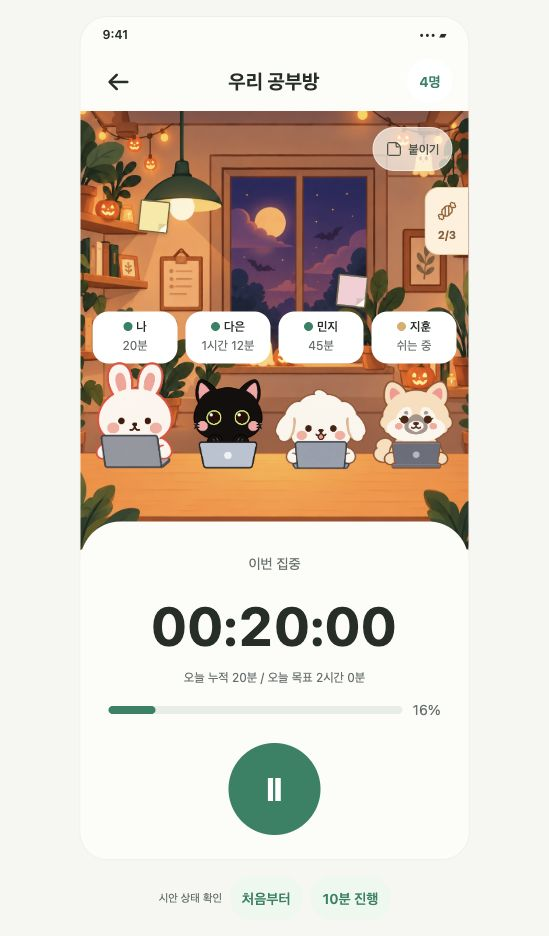
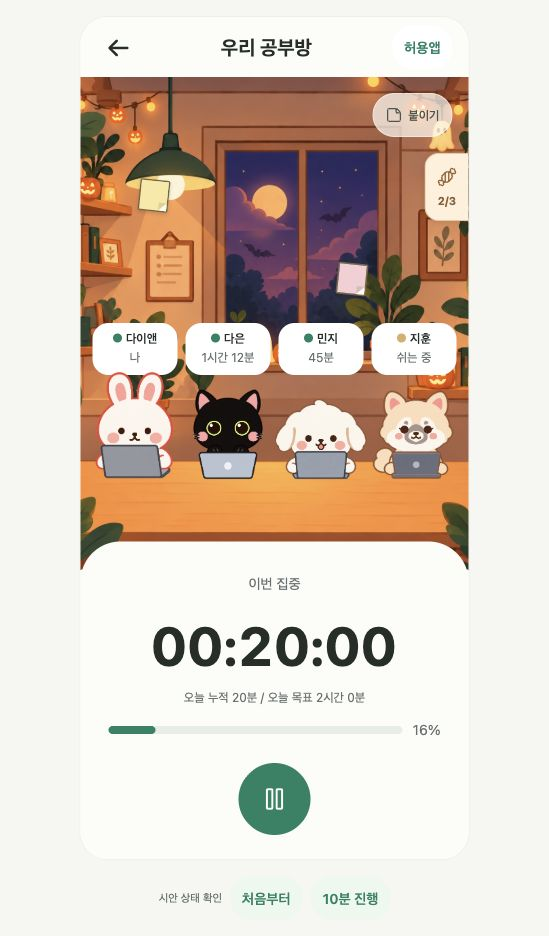
refactor: share actual focus screen UI with event Storybook

Changed region(s): [[0.1239, 0.031, 0.867, 0.8985], [0.1858, 0.7436, 0.2787, 0.8056], [0.7432, 0.7436, 0.8051, 0.8056]]

diff --git a/stories/FocusHalloweenEvent.stories.tsx b/stories/FocusHalloweenEvent.stories.tsx
@@ -4,7 +4,8 @@ import { Candy, Check, Gift } from 'lucide-react-native';
 import { Image, Pressable, StyleSheet, Text, View } from 'react-native';
 import { PostitBoard } from '../src/features/postits/PostitBoard';
 import type { Postit } from '../src/features/postits/model';
-import { FocusView } from '../src/features/study/FocusView';
+import { FocusScreenView } from '../src/features/study/FocusScreenView';
+import { StudyControlView } from '../src/features/study/StudyControlView';
 import { Button } from '../src/design/components';
 import { Dialog, DialogCloseButton } from '../src/design/Dialog';
 import { colors, typography } from '../src/design/theme';
@@ -38,28 +39,27 @@ function Preview({ minutes = 20, width = 390, confirming = false }: { minutes?: 
   ]);
   return <View style={{ gap: 16, alignItems: 'center' }}>
     <View style={[s.phone, { width, height: 844 }]}>
-      <View style={s.status}><Text style={s.statusText}>9:41</Text><Text style={s.statusText}>••• ▰</Text></View>
-      <FocusView backgroundId="halloween-focus" effectsEnabled={false} initialSceneSize={{ width, height: 330 }} members={[
-        { id: 'self', name: '나', time: `${elapsed}분`, active: running, character: 'bunny', self: true },
+      <FocusScreenView backgroundId="halloween-focus" effectsEnabled={false} initialSceneSize={{ width, height: 330 }} members={[
+        { id: 'self', name: '다이앤', time: '나', active: running, character: 'bunny', self: true },
         { id: 'friend-1', name: '다은', time: '1시간 12분', active: true, character: 'blackcat' },
         { id: 'friend-2', name: '민지', time: '45분', active: true, character: 'maltese' },
         { id: 'friend-3', name: '지훈', time: '쉬는 중', active: false, character: 'pomeranian' },
-      ]} memberCount={4} seconds={elapsed * 60} sessionSeconds={elapsed * 60} goalMinutes={120} running={running} onBack={() => {}} onFriends={() => {}} onToggle={() => setRunning(value => !value)} renderRoomOverlay={scene => <View pointerEvents="box-none" style={StyleSheet.absoluteFill}>
+      ]} memberCount={4} seconds={elapsed * 60} sessionSeconds={elapsed * 60} goalMinutes={120} running={running} onBack={() => {}} onFriends={() => {}} onAllowedApps={() => {}} timerControl={<StudyControlView round roundSize={72} running={running} onPress={() => setRunning(value => !value)} />} onToggle={() => setRunning(value => !value)} renderRoomOverlay={scene => <View pointerEvents="box-none" style={StyleSheet.absoluteFill}>
         <EventBookmark minutes={elapsed} confirming={confirming} onOpen={() => setDetails(true)} />
-        <PostitBoard scene={scene} notes={notes} embedded noteBorder createId={() => `preview-${Date.now()}`} add={async (id, text, color, x, y) => setNotes(previous => [...previous, { id, text, color, x, y, author: '나', room_id: 0, study_date: '2026-10-31', deleted_at: null }])} remove={async id => setNotes(previous => previous.filter(note => note.id !== id))} /></View>} />
+        <PostitBoard scene={scene} notes={notes} embedded noteBorder createId={() => `preview-${Date.now()}`} add={async (id, text, color, x, y) => setNotes(previous => [...previous, { id, text, color, x, y, author: '나', room_id: 0, study_date: '2026-10-31', deleted_at: null }])} remove={async id => setNotes(previous => previous.filter(note => note.id !== id))} /></View>}>
       <Dialog visible={details} embedded label={received ? '할로윈 포스트잇 획득' : '할로윈 이벤트 안내'} onClose={() => setDetails(false)}><View style={s.detail}>
         <Text style={s.detailEyebrow}>HALLOWEEN · 10.31</Text><Text style={s.detailTitle}>{received ? '달콤한 선물이 도착했어요' : '공부하고 사탕을 모아요'}</Text>
         <View style={s.largePaper}><Image accessible accessibilityLabel="한정 포스트잇 종이 미리보기" source={paperSource} resizeMode="contain" style={StyleSheet.absoluteFill} /><View style={s.paperText}><Text style={s.paperMessage}>{'오늘도 함께\n공부해요 🎃'}</Text></View></View>
         <CandyProgress minutes={elapsed} /><Text style={s.detailCopy}>{received ? '할로윈 포스트잇을 받았어요.\n포스트잇 작성창의 종이 디자인에서 선택해 보세요.' : '10분 공부할 때마다 사탕 한 개!\n오늘 30분을 채우면 한정 포스트잇을 드려요.\n잠깐 쉬어도 모은 사탕은 그대로예요.'}</Text>
         <View style={s.detailReward}><Gift size={16} color="#AB713E" /><Text style={s.detailRewardText}>한 번 받으면 이벤트가 끝나도 계속 써요</Text></View><DialogCloseButton label={received ? '확인했어요' : '사탕 모으러 가기'} />
       </View></Dialog>
+      </FocusScreenView>
     </View>
     <View style={s.previewControls}><Text style={s.previewLabel}>시안 상태 확인</Text><Button label="처음부터" variant="secondary" size="compact" onPress={() => setElapsed(0)} /><Button label="10분 진행" variant="secondary" size="compact" onPress={() => setElapsed(value => Math.min(30, value + 10))} /></View>
   </View>;
 }
 const s = StyleSheet.create({
   phone: { maxWidth: '100%', overflow: 'hidden', borderRadius: 28, backgroundColor: colors.background, borderWidth: 1, borderColor: colors.border },
-  status: { height: 34, paddingHorizontal: 22, flexDirection: 'row', justifyContent: 'space-between', alignItems: 'center' }, statusText: { fontSize: 12, fontWeight: '600', color: colors.text },
   bookmark: { position: 'absolute', top: 76, right: 0, width: 44, minHeight: 68, paddingVertical: 10, gap: 6, borderTopLeftRadius: 14, borderBottomLeftRadius: 14, backgroundColor: '#FFF1DC', borderColor: '#E8C89E', borderWidth: 1, borderRightWidth: 0, alignItems: 'center', justifyContent: 'center', boxShadow: '-2px 2px 6px rgba(65,37,19,0.10)' },
   bookmarkCount: { fontSize: 11, lineHeight: 14, fontWeight: '700', color: '#8A5E37' }, bookmarkCheck: { position: 'absolute', right: 4, top: 5, width: 13, height: 13, borderRadius: 7, backgroundColor: colors.primary, alignItems: 'center', justifyContent: 'center' },
   candies: { flexDirection: 'row', gap: 5 }, step: { gap: 3, alignItems: 'center' }, candy: { width: 31, height: 31, borderRadius: 16, alignItems: 'center', justifyContent: 'center' },
@@ -69,7 +69,7 @@ const s = StyleSheet.create({
   detailCopy: { fontSize: 12, lineHeight: 21, textAlign: 'center', color: '#795B42' }, detailReward: { flexDirection: 'row', gap: 5, alignItems: 'center' }, detailRewardText: { fontSize: 10, color: '#967A62', flexShrink: 1 },
   previewControls: { flexDirection: 'row', gap: 8, alignItems: 'center', flexWrap: 'wrap', justifyContent: 'center' }, previewLabel: { fontSize: 11, color: colors.secondary },
 });
-const meta = { title: '화면/집중 할로윈 이벤트', component: Preview, parameters: { screenLayout: true, docs: { description: { component: '집중 공부방 오른쪽 가장자리에 붙은 작은 이벤트 북마크 시안입니다. 타이머와 공부방의 높이를 줄이지 않습니다. 10분마다 사탕 한 개, 30분에 포스트잇을 받습니다. 기존 PostitBoard의 붙이기 버튼·작성·열람·삭제를 함께 표시해 겹침을 확인할 수 있습니다. 북마크를 누르면 설명과 종이 미리보기가 열립니다. 화면 아래 상태 확인 버튼은 Storybook 전용이며 앱에 들어가지 않습니다. 서버 연결·실제 지급·이벤트 노출은 하지 않습니다. 종이 PNG는 기존 검증용 도형입니다.' } } }, args: { minutes: 20, width: 390, confirming: false }, render: args => <Preview key={JSON.stringify(args)} {...args} /> } satisfies Meta<typeof Preview>;
+const meta = { title: '화면/집중 할로윈 이벤트', component: Preview, parameters: { screenLayout: true, docs: { description: { component: '앱 FocusScreen이 실제 사용하는 FocusScreenView·StudyControlView·PostitBoard를 그대로 사용합니다. 허용앱 헤더와 72px 공부 조작 버튼, 실제 화면 바깥 레이아웃을 공유하며 예시 데이터만 주입합니다. 오른쪽 가장자리에 이벤트 북마크를 추가한 시안입니다. 타이머와 공부방의 높이를 줄이지 않습니다. 10분마다 사탕 한 개, 30분에 포스트잇을 받습니다. 기존 PostitBoard의 붙이기 버튼·작성·열람·삭제를 함께 표시해 겹침을 확인할 수 있습니다. 북마크를 누르면 설명과 종이 미리보기가 열립니다. 화면 아래 상태 확인 버튼은 Storybook 전용이며 앱에 들어가지 않습니다. 서버 연결·실제 지급·이벤트 노출은 하지 않습니다. 종이 PNG는 기존 검증용 도형입니다.' } } }, args: { minutes: 20, width: 390, confirming: false }, render: args => <Preview key={JSON.stringify(args)} {...args} /> } satisfies Meta<typeof Preview>;
 export default meta;
 type Story = StoryObj<typeof meta>;
 export const InProgress: Story = { name: '20분 · 사탕 2개' };

diff --git a/src/features/study/StudyUI.tsx b/src/features/study/StudyUI.tsx
@@ -1,15 +1,18 @@
+import { ui } from './study-styles';
 import { useSkinArtwork } from '../artwork/useSkinArtwork';
 import { ArtworkImage } from '../artwork/ArtworkImage';
 import { resolveCharacterArtwork as defaultArtwork } from '../../design/skin-artwork';
 import { characters } from '../profile/CharacterPicker';
 import type { CharacterId } from '../../lib/characters';
-import { colors, typography, radius, layout } from '../../design/theme';
+import { colors } from '../../design/theme';
 import { AchievementBadge, Button } from '../../design/components';
 import type { PropsWithChildren } from 'react';
-import { ActivityIndicator, Image, RefreshControl, ScrollView, StyleSheet, Text, View } from 'react-native';
+import { ActivityIndicator, Image, RefreshControl, ScrollView, Text, View } from 'react-native';
 import { useIdentity } from '../../components/IdentityProvider';
 import { useStudy } from './StudyProvider';
 import { progress } from './presentation';
+
+export { ui } from './study-styles';
 
 export function Avatar({ size = 64, character = 'bunny', activeSkinId }: { id?: string; size?: number; character?: CharacterId; activeSkinId?: string | null }) {
   const { resolveCharacterArtwork } = useSkinArtwork([activeSkinId]);
@@ -45,13 +48,3 @@ export function TimerButton({ large = false }: { large?: boolean }) {
     size={large ? 'round' : 'default'} loading={s.busy} disabled={!s.today || !!identity.error} onPress={() => void s.toggle()}
     label={`${s.actionFailed ? '↻' : running ? 'Ⅱ' : '▶'}${large ? '' : s.actionFailed ? ' 다시 시도' : running ? ' 일시정지' : ' 공부 시작'}`} />;
 }
-export const ui = StyleSheet.create({
-  outer: { flex: 1, backgroundColor: colors.canvas, alignItems: 'center' }, page: { flex: 1, width: '100%', maxWidth: layout.maxWidth, backgroundColor: colors.background },
-  padding: { paddingHorizontal: layout.pagePadding }, heading: { ...typography.heading, color: colors.text }, title: { ...typography.title, color: colors.text },
-  muted: { ...typography.secondary, color: colors.secondary }, body: { ...typography.body, color: colors.text },
-  row: { flexDirection: 'row', alignItems: 'center', gap: 12 }, progressRow: { flexDirection: 'row', alignItems: 'center', gap: 12 },
-  track: { height: 14, backgroundColor: colors.track, flex: 1, borderRadius: radius.pill, overflow: 'hidden' }, fill: { height: '100%', backgroundColor: colors.primary, borderRadius: radius.pill },
-  nav: { flexDirection: 'row', borderTopWidth: 1, borderColor: colors.border, backgroundColor: colors.navigation, paddingTop: 8, paddingBottom: 10 }, navItem: { flex: 1, alignItems: 'center', gap: 1, minHeight: 52 },
-  status: { marginHorizontal: 24, marginVertical: 12, gap: 8, alignItems: 'center' }, error: { ...typography.secondary, color: colors.error }, link: { ...typography.link, color: colors.primary },
-  dot: { width: 9, height: 9, borderRadius: 5, backgroundColor: colors.primary },
-});

diff --git a/src/features/study/FocusScreen.tsx b/src/features/study/FocusScreen.tsx
@@ -7,12 +7,11 @@ import { PostitOverlay } from '../postits/PostitOverlay';
 import { useState } from 'react';
 import { AllowedAppsLauncher } from '../allowed-apps/AllowedAppsLauncher';
 import { useAndroidBack } from '../navigation/useAndroidBack';
-import { View } from 'react-native';
 import { router, useIsFocused } from 'expo-router';
 import { useIdentity } from '../../components/IdentityProvider';
 import { useStudy } from './StudyProvider';
-import { ui } from './StudyUI';
-import { FocusView, type FocusMember } from './FocusView';
+import type { FocusMember } from './FocusView';
+import { FocusScreenView } from './FocusScreenView';
 import { displayedSeconds, duration, progress } from './presentation';
 
 export function FocusScreen() {
@@ -38,10 +37,9 @@ export function FocusScreen() {
     const percent = progress(elapsed, member.today.goalMinutes);
     members.push({ id: member.profile.id, name: member.profile.displayName, character: member.profile.character ?? 'bunny', activeSkinId: member.profile.activeSkinId, active: !!member.activeSession, time: duration(elapsed, false), achieved: percent !== null && percent >= 100 });
   }
-  return <View style={ui.outer}><View style={ui.page}>
-    <FocusView backgroundId={eventBackgrounds.focus} effectsEnabled={focused} onWake={setCalledFriend} renderRoomOverlay={scene => <PostitOverlay scene={scene} />} members={members} memberCount={study.room ? study.room.data.length : null} seconds={seconds} sessionSeconds={sessionSeconds} goalMinutes={data?.day.goalMinutes ?? null} running={!!data?.activeSession} busy={study.busy} disabled={!data || !!identity.error} timerControl={<StudyControl round />} onBack={() => router.dismissTo('/')} onFriends={() => router.navigate('/friends')} onToggle={() => void study.toggle()} onAllowedApps={() => setAllowedAppsOpen(true)} />
+  return <FocusScreenView backgroundId={eventBackgrounds.focus} effectsEnabled={focused} onWake={setCalledFriend} renderRoomOverlay={scene => <PostitOverlay scene={scene} />} members={members} memberCount={study.room ? study.room.data.length : null} seconds={seconds} sessionSeconds={sessionSeconds} goalMinutes={data?.day.goalMinutes ?? null} running={!!data?.activeSession} busy={study.busy} disabled={!data || !!identity.error} timerControl={<StudyControl round />} onBack={() => router.dismissTo('/')} onFriends={() => router.navigate('/friends')} onToggle={() => void study.toggle()} onAllowedApps={() => setAllowedAppsOpen(true)}>
     {calledFriend && <CallFriendDialog friend={calledFriend} onClose={() => setCalledFriend(null)} />}
     <AllowedAppsLauncher visible={allowedAppsOpen} onClose={() => setAllowedAppsOpen(false)} />
 
-  </View></View>;
+  </FocusScreenView>;
 }

diff --git a/src/features/study/study-styles.ts b/src/features/study/study-styles.ts
@@ -1,0 +1,13 @@
+import { StyleSheet } from 'react-native';
+import { colors, typography, radius, layout } from '../../design/theme';
+
+export const ui = StyleSheet.create({
+  outer: { flex: 1, backgroundColor: colors.canvas, alignItems: 'center' }, page: { flex: 1, width: '100%', maxWidth: layout.maxWidth, backgroundColor: colors.background },
+  padding: { paddingHorizontal: layout.pagePadding }, heading: { ...typography.heading, color: colors.text }, title: { ...typography.title, color: colors.text },
+  muted: { ...typography.secondary, color: colors.secondary }, body: { ...typography.body, color: colors.text },
+  row: { flexDirection: 'row', alignItems: 'center', gap: 12 }, progressRow: { flexDirection: 'row', alignItems: 'center', gap: 12 },
+  track: { height: 14, backgroundColor: colors.track, flex: 1, borderRadius: radius.pill, overflow: 'hidden' }, fill: { height: '100%', backgroundColor: colors.primary, borderRadius: radius.pill },
+  nav: { flexDirection: 'row', borderTopWidth: 1, borderColor: colors.border, backgroundColor: colors.navigation, paddingTop: 8, paddingBottom: 10 }, navItem: { flex: 1, alignItems: 'center', gap: 1, minHeight: 52 },
+  status: { marginHorizontal: 24, marginVertical: 12, gap: 8, alignItems: 'center' }, error: { ...typography.secondary, color: colors.error }, link: { ...typography.link, color: colors.primary },
+  dot: { width: 9, height: 9, borderRadius: 5, backgroundColor: colors.primary },
+});

diff --git a/src/features/study/FocusScreenView.tsx b/src/features/study/FocusScreenView.tsx
@@ -1,0 +1,13 @@
+import type { ReactNode } from 'react';
+import { View } from 'react-native';
+import { FocusView, type FocusViewProps } from './FocusView';
+import { ui } from './study-styles';
+
+type Props = FocusViewProps & { timerControl: ReactNode; onAllowedApps(): void; children?: ReactNode };
+/** The actual focus-screen shell. App and Storybook supply state, never separate layouts. */
+export function FocusScreenView({ children, ...props }: Props) {
+  return <View style={ui.outer}><View style={ui.page}>
+    <FocusView {...props} />
+    {children}
+  </View></View>;
+}
